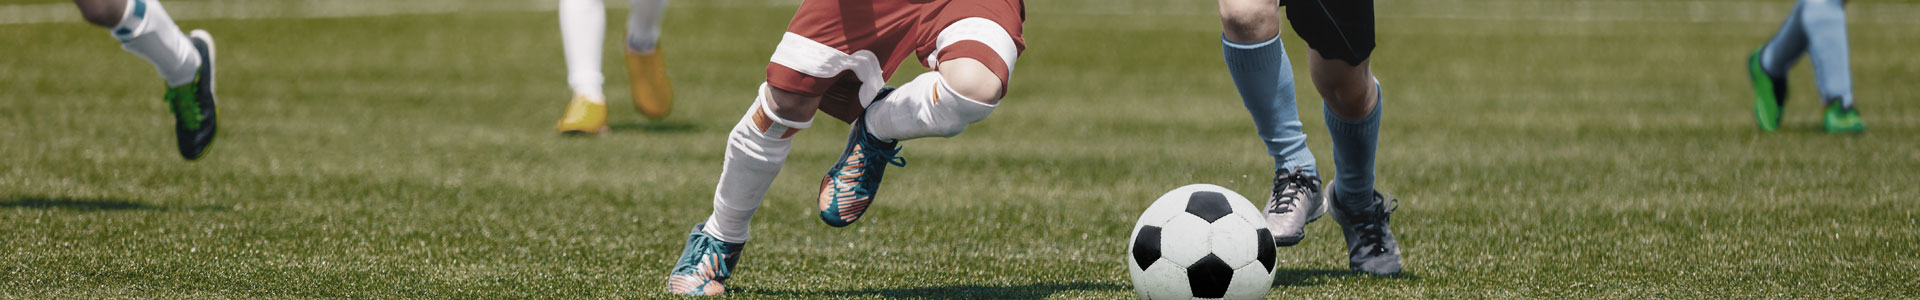
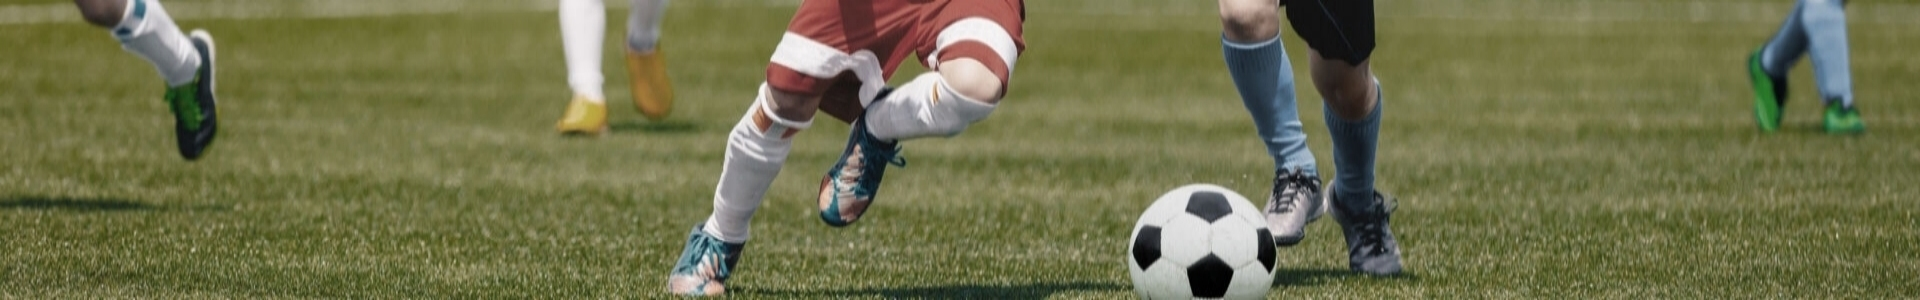
FootEd homepage photo resolution and back to home button fixed

diff --git a/FootEd/Forum.aspx.cs b/FootEd/Forum.aspx.cs
@@ -8,57 +8,57 @@ namespace FootEd
 {
     public partial class forum : System.Web.UI.Page
     {
-        protected void Page_Load(object sender, EventArgs e)
-        {
-            if (!IsPostBack)
-            {
-                BindPosts();
-            }
-        }
+        //protected void Page_Load(object sender, EventArgs e)
+        //{
+        //    if (!IsPostBack)
+        //    {
+        //        BindPosts();
+        //    }
+        //}
 
-        private void BindPosts()
-        {
-            string connStr = ConfigurationManager.ConnectionStrings["con"].ConnectionString;
-            using (SqlConnection conn = new SqlConnection(connStr))
-            {
-                SqlDataAdapter da = new SqlDataAdapter("SELECT PostId, Title, Subject, Author, Date FROM Posts", conn);
-                DataTable dt = new DataTable();
-                da.Fill(dt);
-                rptPosts.DataSource = dt;
-                rptPosts.DataBind();
-            }
-        }
+        //private void BindPosts()
+        //{
+        //    string connStr = ConfigurationManager.ConnectionStrings["con"].ConnectionString;
+        //    using (SqlConnection conn = new SqlConnection(connStr))
+        //    {
+        //        SqlDataAdapter da = new SqlDataAdapter("SELECT PostId, Title, Subject, Author, Date FROM Posts", conn);
+        //        DataTable dt = new DataTable();
+        //        da.Fill(dt);
+        //        rptPosts.DataSource = dt;
+        //        rptPosts.DataBind();
+        //    }
+        //}
 
-        protected void btnSubmit_Click(object sender, EventArgs e)
-        {
-            string title = txtTitle.Text.Trim();
-            string Subject = txtSubject.Text.Trim();
-            string author = User.Identity.Name; // Assuming users are authenticated
-            DateTime date = DateTime.Now;
+        //protected void btnSubmit_Click(object sender, EventArgs e)
+        //{
+        //    string title = txtTitle.Text.Trim();
+        //    string Subject = txtSubject.Text.Trim();
+        //    string author = User.Identity.Name; // Assuming users are authenticated
+        //    DateTime date = DateTime.Now;
 
-            string connStr = ConfigurationManager.ConnectionStrings["con"].ConnectionString;
-            using (SqlConnection conn = new SqlConnection(connStr))
-            {
-                SqlCommand cmd = new SqlCommand("INSERT INTO Posts (Title, Subject, Author, Date) VALUES (@Title, @Subject, @Author, @Date)", conn);
-                cmd.Parameters.AddWithValue("@Title", title);
-                cmd.Parameters.AddWithValue("@Subject", Subject);
-                cmd.Parameters.AddWithValue("@Author", author);
-                cmd.Parameters.AddWithValue("@Date", date);
+        //    string connStr = ConfigurationManager.ConnectionStrings["con"].ConnectionString;
+        //    using (SqlConnection conn = new SqlConnection(connStr))
+        //    {
+        //        SqlCommand cmd = new SqlCommand("INSERT INTO Posts (Title, Subject, Author, Date) VALUES (@Title, @Subject, @Author, @Date)", conn);
+        //        cmd.Parameters.AddWithValue("@Title", title);
+        //        cmd.Parameters.AddWithValue("@Subject", Subject);
+        //        cmd.Parameters.AddWithValue("@Author", author);
+        //        cmd.Parameters.AddWithValue("@Date", date);
 
-                conn.Open();
-                cmd.ExecuteNonQuery();
-                conn.Close();
-            }
+        //        conn.Open();
+        //        cmd.ExecuteNonQuery();
+        //        conn.Close();
+        //    }
 
-            BindPosts();
-            txtTitle.Text = string.Empty;
-            txtSubject.Text = string.Empty;
-        }
+        //    BindPosts();
+        //    txtTitle.Text = string.Empty;
+        //    txtSubject.Text = string.Empty;
+        //}
 
-        protected void ViewPost_Command(object sender, CommandEventArgs e)
-        {
-            int postId = Convert.ToInt32(e.CommandArgument);
-            Response.Redirect("Post.aspx?PostId=" + postId);
-        }
+        //protected void ViewPost_Command(object sender, CommandEventArgs e)
+        //{
+        //    int postId = Convert.ToInt32(e.CommandArgument);
+        //    Response.Redirect("Post.aspx?PostId=" + postId);
+        //}
     }
 }

diff --git a/FootEd/Forum.aspx.designer.cs b/FootEd/Forum.aspx.designer.cs
@@ -24,13 +24,13 @@ namespace FootEd
         protected global::System.Web.UI.WebControls.TextBox txtTitle;
 
         /// <summary>
-        /// txtSubject control.
+        /// txtContent control.
         /// </summary>
         /// <remarks>
         /// Auto-generated field.
         /// To modify move field declaration from designer file to code-behind file.
         /// </remarks>
-        protected global::System.Web.UI.WebControls.TextBox txtSubject;
+        protected global::System.Web.UI.WebControls.TextBox txtContent;
 
         /// <summary>
         /// btnSubmit control.
@@ -49,19 +49,5 @@ namespace FootEd
         /// To modify move field declaration from designer file to code-behind file.
         /// </remarks>
         protected global::System.Web.UI.WebControls.Repeater rptPosts;
-
-        /// <summary>
-        /// Master property.
-        /// </summary>
-        /// <remarks>
-        /// Auto-generated property.
-        /// </remarks>
-        public new FootEd.Site1 Master
-        {
-            get
-            {
-                return ((FootEd.Site1)(base.Master));
-            }
-        }
     }
 }
